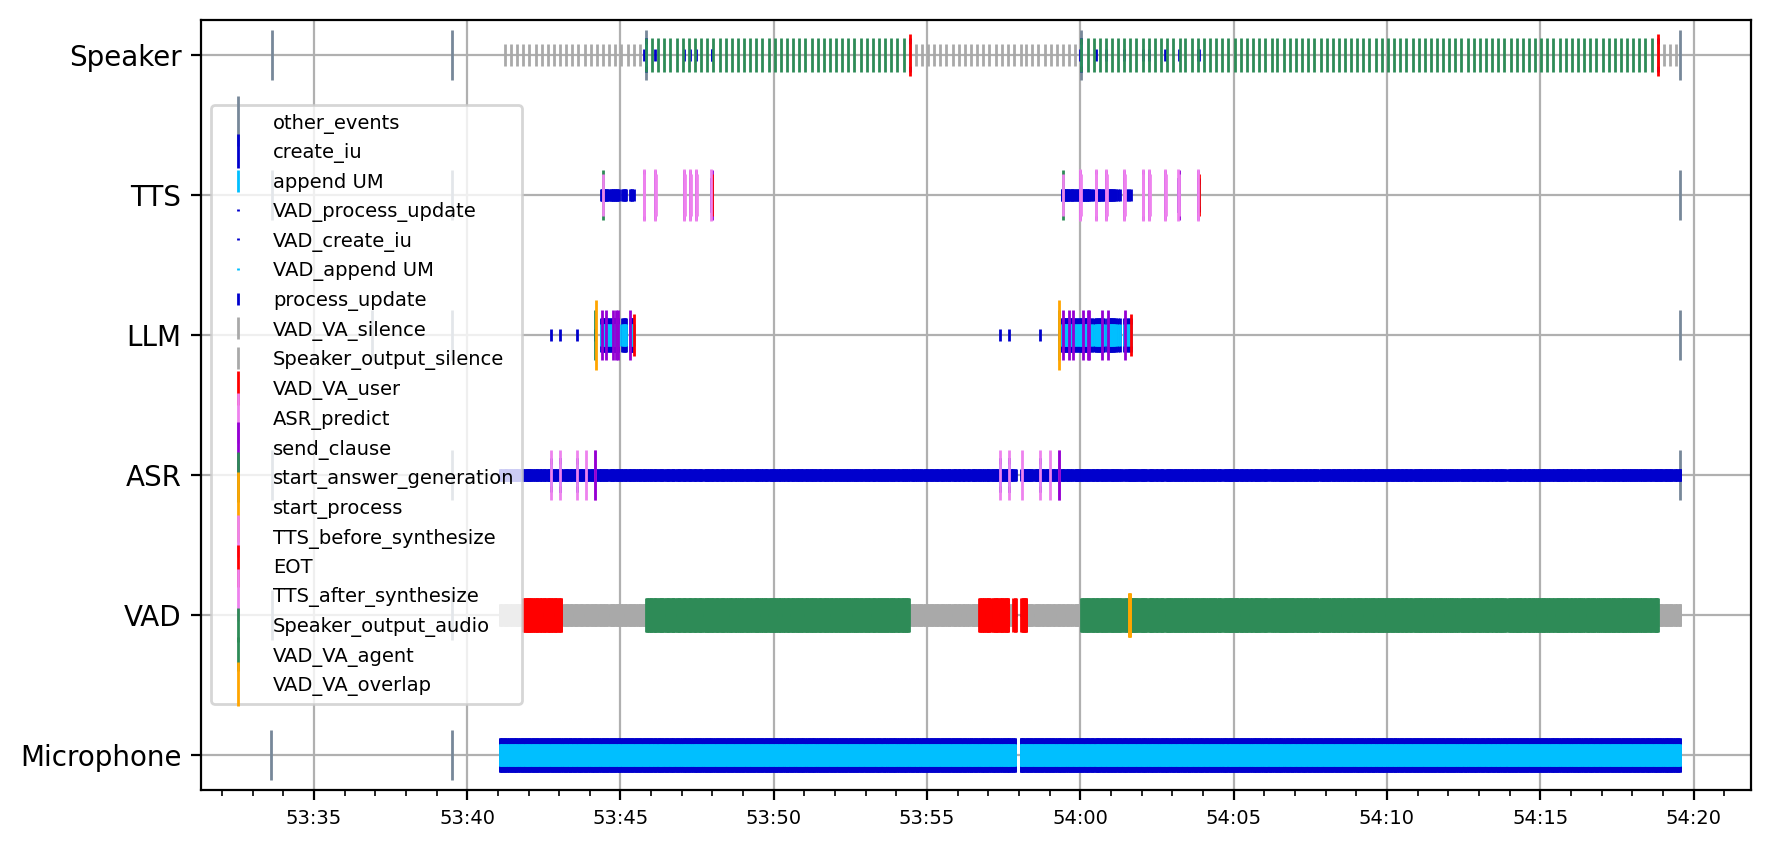
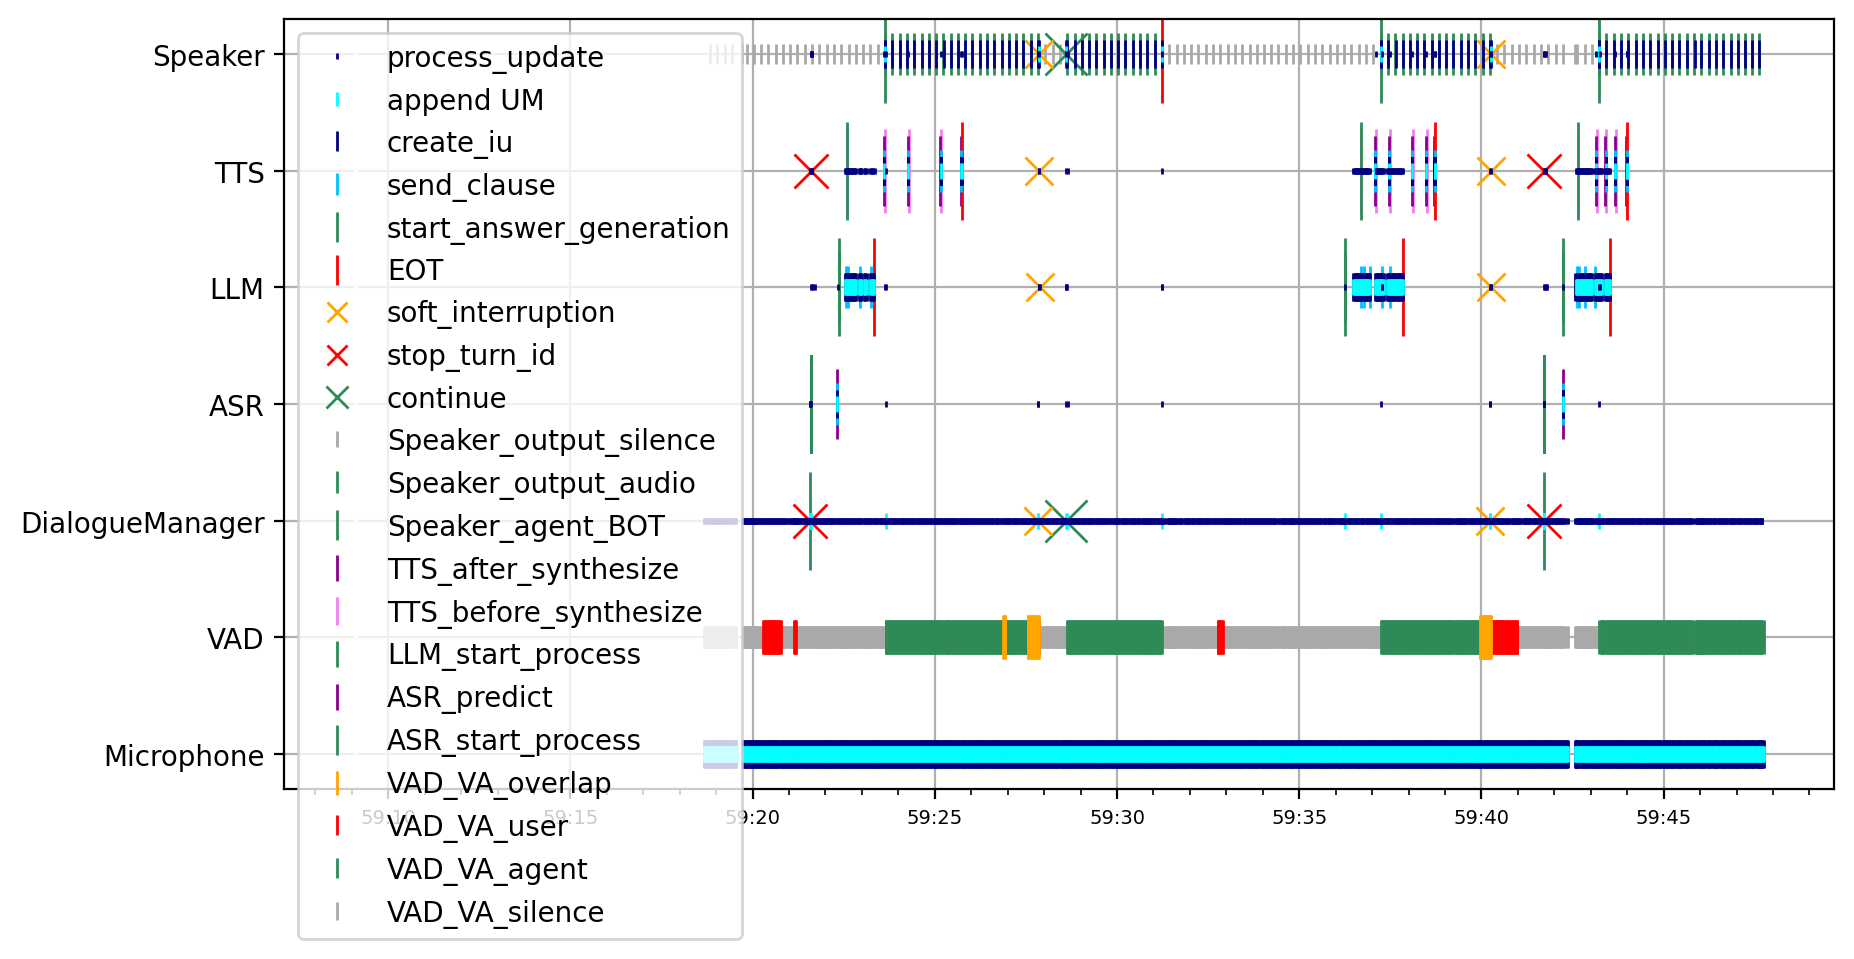
update doc + get rid of simple module to have only DM system

diff --git a/docs/plot_and_visualization.md b/docs/plot_and_visualization.md
@@ -1,12 +1,12 @@
 # System Execution Visualization
 
-The retico-core package that is used to build this simple retico agent provides us with a basic logging and plotting system. The plotting system is simple : load the log messages stored in the log file, sort them according to the plot configuration file (here `src/simple-retico-agent/configs/plot_config_simple.json`) and use them to create a plot showing all log messages from all modules accross time. This system can easily be used in real time, as it can generate a plot repeatidly while the system is running.
+The retico-core package that is used to build this retico conversational agent provides us with a basic logging and plotting system. The plotting system is simple : load the log messages stored in the log file, sort them according to the plot configuration file (here `src/retico-conversational-agent/configs/plot_config_DM.json`) and use them to create a plot showing all log messages from all modules accross time. This system can easily be used in real time, as it can generate a plot repeatidly while the system is running.
 
 For further information concerning the configuration of the plotting system, check the documentation : [https://retico-core-sos.readthedocs.io/en/latest/logs.html#configurate-plotting](https://retico-core-sos.readthedocs.io/en/latest/logs.html#configurate-plotting)
 
-## Explanation of the `plot_config_simple.json` file and its visualization
+## Explanation of the `plot_config_DM.json` file and its visualization
 
-```{figure} img/plot_example.png
+```{figure} img/plot_IU_exchange.png
 :align: center
 
 *A plot generated from the log file of a retico system's execution*
@@ -20,15 +20,24 @@ Here is a list of all general log messages and their signification :
 - `process update` : log every time the module will enter `process_update` function (log called from the `_run` function), and process a new `Update Message` received.
 - `start_answer_generation` : for modules that take appart in the generation of the agent's answer (`LLM` & `TTS`), log when they receive the `Update Message` indicating that they should start the generation.
 - `send_clause` : for modules that sends their IU at a `clause` level of incrementality, once they generated or gathered enough word to constitute a full `clause`, they send all corresponding IUs in one `UM`, and log after sending the `UM`.
-- `EOT` : for modules that are after the `ASR` module in the pipeline (`LLM`, `TTS` and `Speaker`), log once they've generated or consumed all the IUs corresponding to the agent full turn (EOT = End-Of-Turn).
+- `EOT` : for modules that are after the `DM` module in the pipeline (`LLM`, `TTS` and `Speaker`), log once they've generated or consumed all the IUs corresponding to the agent full turn (EOT = End-Of-Turn).
+- `hard_interruption` : Logged once the modules receives the corresponding `DM` message, which is sent whenever the user interrupts the agent (starts speaking when the agent is already speaking). All modules that are after `DM` in the pipeline (`LLM`, `TTS` and `Speaker`) stop generating the agent sentence, or outputting corresponding sound, to hear the new user sentence and generate a new agent answer.
+- `soft_interruption` : Logged once the modules receives the corresponding `DM` message, which is sent whenever the user interrupts the agent (starts speaking when the agent is already speaking). Generative modules (LLM and TTS) will continue to generate the agent answer (if not already entirely generated), but Speaker Module will stop outputting any sound, to hear the user sentence.
+- `continue` : After a `soft_interruption`, if the user stops speaking after a short time, , the `DM` sends a `continue` message. Modules then acts like there where never a `soft_interruption` and continue to generate or output the sound for the current turn. 
+- `stop_turn_id` : After a `soft_interruption`, if the user speaks for a long enough duration, the `DM` sends a `stop_turn_id` message. Modules then acts like a `hard_interruption` and stop generating or outputting sound for the current turn to focus on the next. 
 
 Here is a list of all module-specific log messages and there signification :
 
 - `Speaker_output_audio` : log whenever the `Speaker Module` consumes a `IU` containing speech (from `TTS`) and outputs its raw_audio through the speakers.
 - `Speaker_output_silence` : log whenever the `Speaker Module` outputs silence raw audio through the speakers (during silences or user turn).
+- `Speaker_agent_BOT` : log whenever the `Speaker Module` starts to output raw audio corresponding to a new agent turn.
 - `TTS_before_synthesize` : log just before calling the TTS model to start the voice synthesis (for a full `clause`, as it is the TTS incrementality level).
 - `TTS_after_synthesize` : log just after having synthesized the voice for a full `clause` (as it is the TTS incrementality level).
-- `ASR_predict` : log whenever an ASR prediciton is made from the IU received from the `VAD` during a user turn (`IUs` containing audio + voice activation).
+- `TTS_send_backchannel` : log whenever a backchannel audio is sent to the SpeakerModule, after having received a backchannel message from `DM`.
+- `LLM_start_process` : log whenever the `LLM` starts to generate text for a new agent turn.
+- `ASR_predict` : log whenever an `ASR` prediciton is made from the IU received from the `VAD` during a user turn (`IUs` containing audio + voice activation).
+- `ASR_start_process` : log whenever the `ASR` starts to predicit hypothesis for a new user turn.
+- `DialogueManager_back_channel` : logged whenever the `DM` sends a `backchannel` message to `TTS` to trigger a backchannel audio during a user turn.
 - `VAD_VA_overlap` : log whenever the `VAD` detects an overlap between the agent and the user.
 - `VAD_VA_agent` : log whenever the `VAD` detects that the agent is speaking (agent Voice Activity). It can detects this because it receives `IUs` from the `Speaker Module` (not through the analysis of audio captured by `Microphone`).
 - `VAD_VA_user` : log whenever the `VAD` detects that the user is speaking (user Voice Activity), from the audio captured by the `Microphone`.

diff --git a/README.md b/README.md
@@ -1,6 +1,6 @@
 # Retico Conversational Agent (part of Articulab's Son of Sara project)
 
-This repository is a presentation of a simple conversational agent, build upon an incremental platform for dialogue system called [retico](https://github.com/retico-team/). The agent is built to have a oral conversation  with the user, following a pre-defined scenario. This agent was developped as part of Son-of-Sara project, by [Articulab](https://articulab.hcii.cs.cmu.edu/), a multi-disciplinary cognitive science team, member of the Almanach project team, of the French public research center [Inria Paris](https://www.inria.fr/en).
+This repository is a presentation of a conversational agent, build upon an incremental platform for dialogue system called [retico](https://github.com/retico-team/). The agent is built to have a oral conversation  with the user, following a pre-defined scenario. This agent was developped as part of Son-of-Sara project, by [Articulab](https://articulab.hcii.cs.cmu.edu/), a multi-disciplinary cognitive science team, member of the Almanach project team, of the French public research center [Inria Paris](https://www.inria.fr/en).
 
 This agent is composed of multiple retico modules, each providing the system with a dialogue-related capacity (comprehension, answer generation, memory, etc). Some module use deep learning models to perform complex tasks.
 The system contains the following new modules :
@@ -11,6 +11,7 @@ The system contains the following new modules :
 - DialogueHistory : keeps the previous turns of agent and user, calculates the largest possible history and formats the previous turns into a LLM prompt with the desired template.
 - TTS : generates the voice of the agent corresponding to the textual answer from the LLM.
 - Speaker : outputs the voice of the agent through computer's speakers, and send agent's voice activity information to VAD.
+- DialogueManager : The system's "brain", it gathers information from most modules in the system and keep a dialogue "state" that describes the current locutor(s) if there is any, and decides wether (and when) the modules should start/stop/continue to generate the agent's answer.
 
 The retico system is meant to be used with a **headphone** ! If you don't use one, the agent will be able to listen to itself and will mistake its own voice for the voice of the user (and will most likely continuously answer itself). The voice cancellation model necessary to tackle this issue is not included (yet?) in this system.
 
@@ -87,8 +88,8 @@ Network is constructed :
 
 ```python
 mic.subscribe(vad)
-vad.subscribe(asr)
-asr.subscribe(llm)
+vad.subscribe(dm)
+dm.subscribe(asr)
 ...
 ```
 
